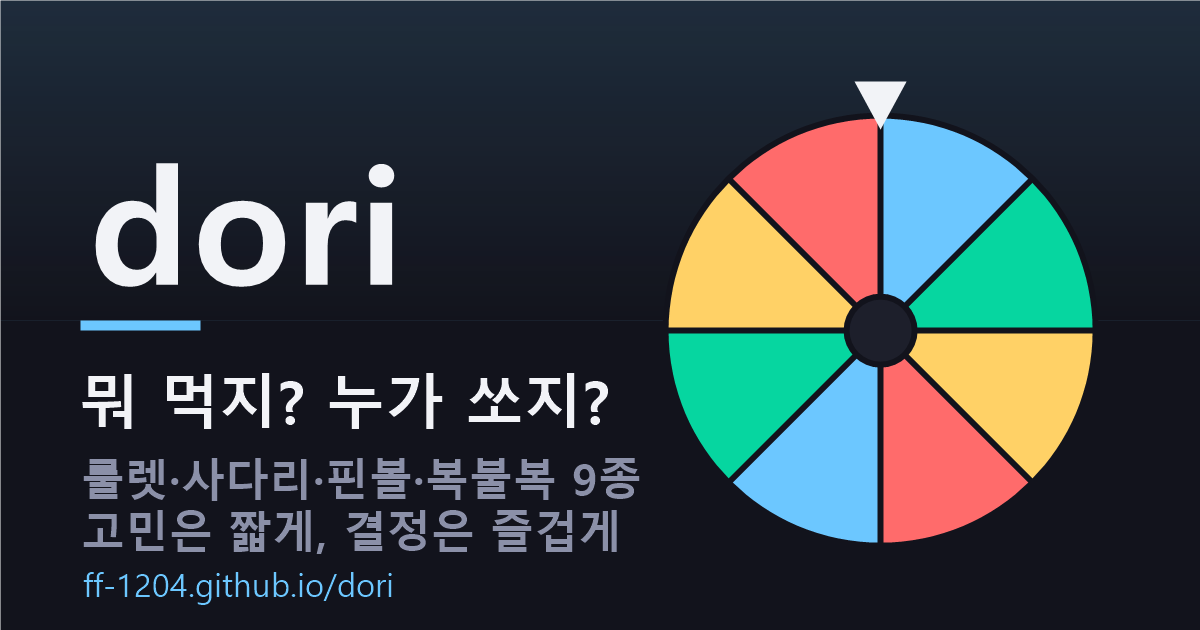
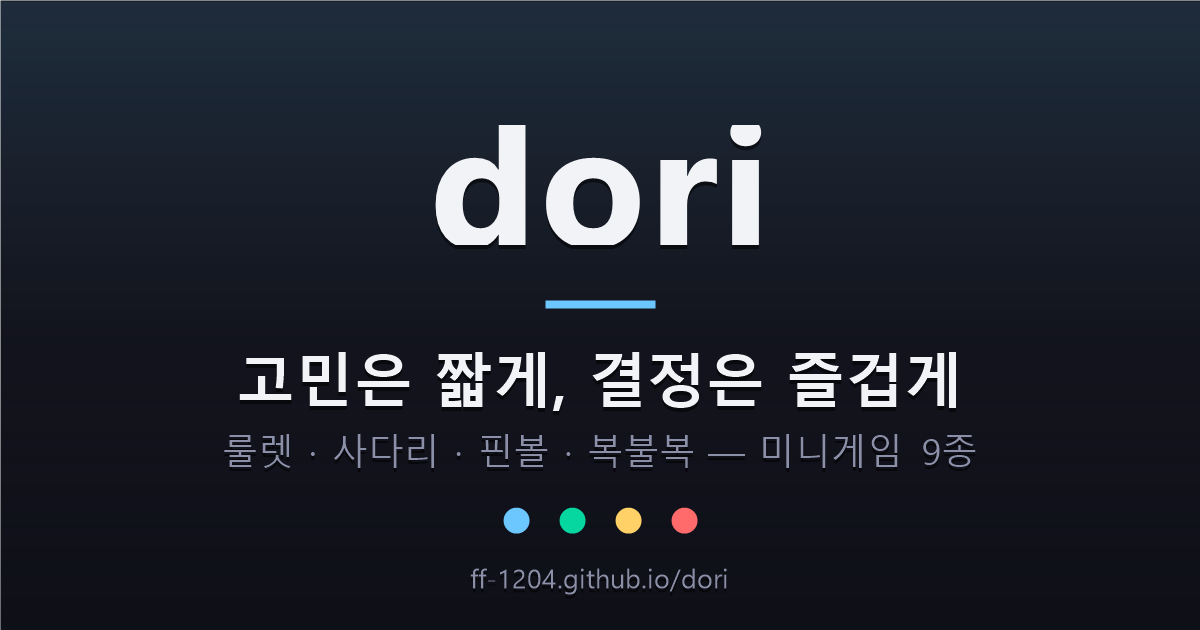
docs: 소개·공유 문구를 친화적으로 다듬고 og 이미지 재생성

diff --git a/index.html b/index.html
@@ -6,7 +6,7 @@
 
   <!-- ===== SEO ===== -->
   <title>dori — 결정 룰렛·사다리타기·복불복 미니게임</title>
-  <meta name="description" content="뭐 먹지? 누가 쏘지? 메뉴 룰렛·사다리타기·랜덤 핀볼·복불복 9종 — 고민은 짧게, 결정은 즐겁게.">
+  <meta name="description" content="뭐 먹지? 누가 하지? 결정이 필요한 순간 — 룰렛·사다리타기·핀볼·복불복 9종이 대신 골라드려요. 고민은 짧게, 결정은 즐겁게.">
   <link rel="canonical" href="https://ff-1204.github.io/dori/">
   <meta name="robots" content="noai, noimageai"><!-- AI 학습 거부 신호(자율 준수 관행) — 검색 색인과 무관 -->
 
@@ -21,7 +21,7 @@
   <meta property="og:type" content="website">
   <meta property="og:site_name" content="dori">
   <meta property="og:title" content="dori — 결정 룰렛·사다리타기·복불복 미니게임">
-  <meta property="og:description" content="뭐 먹지? 누가 쏘지? 룰렛·사다리·핀볼·복불복 9종 — 고민은 짧게, 결정은 즐겁게.">
+  <meta property="og:description" content="결정이 필요한 순간, 미니게임이 대신 골라드려요. 고민은 짧게, 결정은 즐겁게.">
   <meta property="og:url" content="https://ff-1204.github.io/dori/">
   <meta property="og:locale" content="ko_KR">
   <meta property="og:image" content="https://ff-1204.github.io/dori/assets/og.png">
@@ -32,7 +32,7 @@
   <meta property="og:image:alt" content="dori — 결정 룰렛·사다리타기·복불복 미니게임">
   <meta name="twitter:card" content="summary_large_image">
   <meta name="twitter:title" content="dori — 결정 룰렛·사다리타기·복불복 미니게임">
-  <meta name="twitter:description" content="뭐 먹지? 누가 쏘지? 룰렛·사다리·핀볼·복불복 9종 — 고민은 짧게, 결정은 즐겁게.">
+  <meta name="twitter:description" content="결정이 필요한 순간, 미니게임이 대신 골라드려요. 고민은 짧게, 결정은 즐겁게.">
   <meta name="twitter:image" content="https://ff-1204.github.io/dori/assets/og.png">
 
   <!-- 구조화 데이터(검색 결과 확장) -->
@@ -42,7 +42,7 @@
     "@type": "WebApplication",
     "name": "dori",
     "url": "https://ff-1204.github.io/dori/",
-    "description": "메뉴 룰렛·사다리타기·랜덤 핀볼·복불복 등 결정을 도와주는 미니게임 9종",
+    "description": "메뉴 룰렛·사다리타기·랜덤 핀볼·복불복 등 결정을 도와주는 미니게임 9종 — 화면 그대로 뽑는 정직한 랜덤, 오락 목적",
     "applicationCategory": "GameApplication",
     "operatingSystem": "Web",
     "inLanguage": "ko",

diff --git a/README.md b/README.md
@@ -1,6 +1,10 @@
 # dori 🎡
 
-> 뭐 먹지? 누가 쏘지? — **고민은 짧게, 결정은 즐겁게.**
+> 뭐 먹지? 누가 하지? — **고민은 짧게, 결정은 즐겁게.**
+
+**dori**는 결정이 필요한 순간을 위한 미니게임 모음입니다.
+룰렛을 돌리고, 사다리를 타고, 핀볼을 떨어뜨리면 — 남은 건 결과를 즐기는 것뿐.
+속임수 없이 **화면에 보이는 그대로 뽑는 정직한 랜덤**이 원칙이고, 모든 게임은 오락 목적입니다.
 
 결정 돕기 · 랜덤 뽑기 · 복불복 **미니게임 컬렉션**.
 